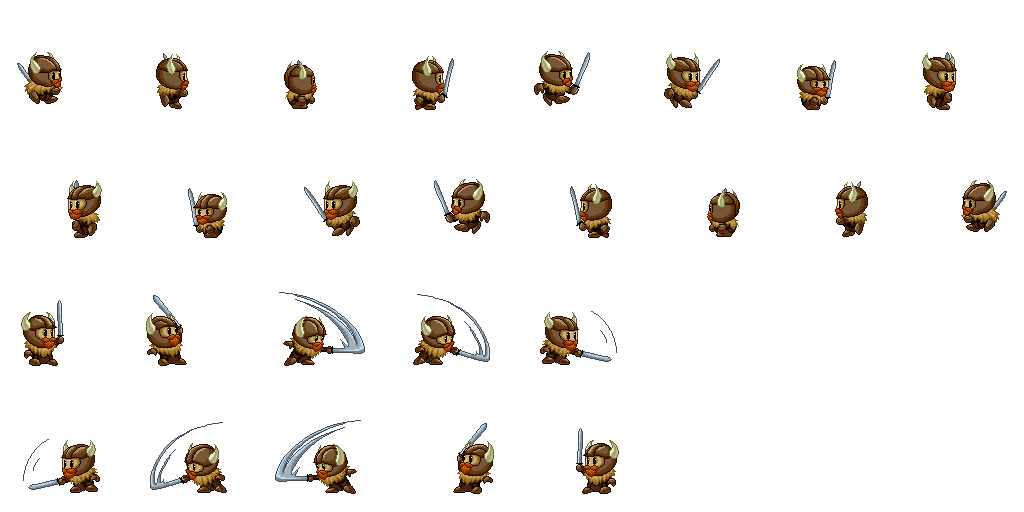
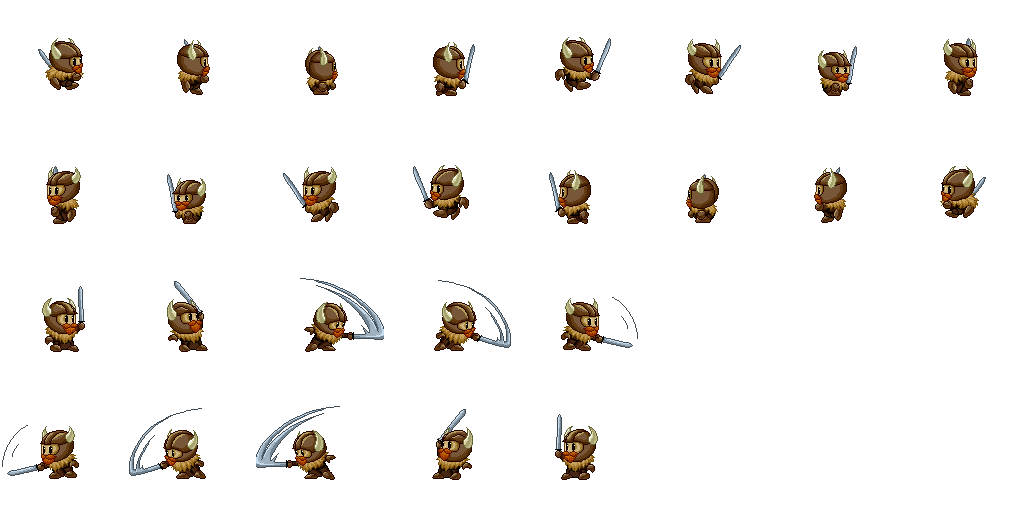
Update character model and update collision logic

diff --git a/frontend/src/components/game/characters.js b/frontend/src/components/game/characters.js
@@ -81,26 +81,26 @@ class DisplayCharacters extends React.Component {
         // }
     }
     checkWalls(left, right, top, bottom) {
-        if (left < 0) {
-            if (top < 300 || bottom > 400) {
+        if (left < 5) {
+            if (top < 272 || bottom > 378) {
                 return false;
             }
         }
 
-        if (right > 1032) {
-            if (top < 300 || bottom > 400) {
+        if (right > 995) {
+            if (top < 272 || bottom > 378) {
                 return false;
             }
         }
 
-        if (top < 0) {
-            if (left < 472 || right > 562) {
+        if (top < 10) {
+            if (left < 456 || right > 552) {
                 return false;
             }
         }
 
-        if (bottom > 625) {
-            if (left < 472 || right > 562) {
+        if (bottom > 640) {
+            if (left < 456 || right > 552) {
                 return false;
             }
         }
@@ -114,12 +114,15 @@ class DisplayCharacters extends React.Component {
 
         switch(dir) {
             case "up":
-                // if (currentState.yPixel - 8 > 64 || (currentState.xPixel > 500 && currentState.xPixel < 544)) {
+                if (currentState.animation === "runningRight" || currentState.animation === "meleeRight") {
+                    currentState.animation = "runningRight"
+                } else if (currentState.animation === "runningLeft" || currentState.animation === "meleeLeft") {
+                    currentState.animation = "runningLeft"
+                }
                 if (this.checkWalls(
                     currentState.xPixel, currentState.right, 
                     currentState.yPixel - 8, currentState.bottom - 8)) {
-
-                    if (roomNumber.topExit !== -1 && (currentState.yPixel - 8 < -64 && (currentState.xPixel > 472 && currentState.xPixel < 562))) {
+                    if (roomNumber.topExit !== -1 && (currentState.yPixel - 8 < -96 && (currentState.xPixel > 456 && currentState.xPixel < 552))) {
                         currentState.room = roomNumber.topExit;
                         currentState.yPixel = 660;
                         currentState.bottom = currentState.yPixel + 82;
@@ -135,11 +138,15 @@ class DisplayCharacters extends React.Component {
                 currentState.yPos = Math.round(currentState.yPixel / 64); 
                 break;
             case "down":
-                // if (currentState.yPixel + 8 < 576 || (currentState.xPixel > 500 && currentState.xPixel < 544)) {
+                if (currentState.animation === "runningRight" || currentState.animation === "meleeRight") {
+                    currentState.animation = "runningRight"
+                } else if (currentState.animation === "runningLeft" || currentState.animation === "meleeLeft") {
+                    currentState.animation = "runningLeft"
+                }
                 if (this.checkWalls(
                     currentState.xPixel, currentState.right,
                     currentState.yPixel + 8, currentState.bottom + 8)) {
-                    if (roomNumber.bottomExit !== -1 && (currentState.yPixel + 8 > 650 && (currentState.xPixel > 472 && currentState.xPixel < 562))) {
+                    if (roomNumber.bottomExit !== -1 && (currentState.yPixel + 8 > 650 && (currentState.xPixel > 456 && currentState.xPixel < 552))) {
                         currentState.room = roomNumber.bottomExit;
                         currentState.yPixel = 10;
                         currentState.bottom = currentState.yPixel + 82;
@@ -155,11 +162,10 @@ class DisplayCharacters extends React.Component {
                 currentState.yPos = Math.round(currentState.yPixel / 64); 
                 break;
             case "left":
-                // if (currentState.xPixel - 8 > 64 || (currentState.yPixel > 308 && currentState.yPixel < 352)) {
                 if (this.checkWalls(
                     currentState.xPixel - 8, currentState.right - 8,
                     currentState.yPixel, currentState.bottom)) {
-                    if (roomNumber.leftExit !== -1 && (currentState.xPixel - 8 < 0 && (currentState.yPixel > 300 && currentState.yPixel < 390))) {
+                    if (roomNumber.leftExit !== -1 && (currentState.xPixel - 8 < -96 && (currentState.yPixel > 272 && currentState.yPixel < 378))) {
                         currentState.room = roomNumber.leftExit;
                         currentState.xPixel = 1056
                         currentState.right = currentState.xPixel + 48;
@@ -176,11 +182,10 @@ class DisplayCharacters extends React.Component {
                 currentState.animation = "runningLeft"
                 break;
             case "right":
-                // if (currentState.xPixel + 8 < 992 || (currentState.yPixel > 308 && currentState.yPixel < 352)) {
                 if (this.checkWalls(
                     currentState.xPixel + 8, currentState.right + 8,
                     currentState.yPixel, currentState.bottom)) {
-                    if (roomNumber.rightExit !== -1 && (currentState.xPixel + 8 > 1056 && (currentState.yPixel > 300 && currentState.yPixel < 390))) {
+                    if (roomNumber.rightExit !== -1 && (currentState.xPixel + 8 > 1056 && (currentState.yPixel > 272 && currentState.yPixel < 378))) {
                         currentState.room = roomNumber.rightExit;
                         currentState.xPixel = 10
                         currentState.right = currentState.xPixel + 48;
@@ -197,9 +202,7 @@ class DisplayCharacters extends React.Component {
                 currentState.animation = "runningRight"
                 break;
             case "space":
-                console.log(currentState.animation)
                 currentState.animation = (currentState.animation === "runningRight") ? "meleeRight" : "meleeLeft"
-                console.log(currentState.animation)
                 currentState.frames = 0
             default:
                 break;

diff --git a/frontend/src/components/game/character_animations.js b/frontend/src/components/game/character_animations.js
@@ -4,26 +4,6 @@ const characterAnimations = (spriteValue) => {
                 return {
                     characterImg: "knight",
                     animations: {
-                        // runningRight: [
-                        //     0, 0, 64, 128,
-                        //     64, 0, 64, 128,
-                        //     128, 0, 64, 128,
-                        //     192, 0, 64, 128,
-                        //     256, 0, 64, 128,
-                        //     320, 0, 64, 128,
-                        //     384, 0, 64, 128,
-                        //     448, 0, 64, 128,
-                        // ],
-                        // runningLeft: [
-                        //     448, 128, 64, 128,
-                        //     384, 128, 64, 128,
-                        //     320, 128, 64, 128,
-                        //     256, 128, 64, 128,
-                        //     192, 128, 64, 128,
-                        //     128, 128, 64, 128,
-                        //     64, 128, 64, 128,
-                        //     0, 128, 64, 128,
-                        // ],
                         runningRight: [
                             0, 0, 128, 128,
                             128, 0, 128, 128,
